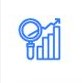
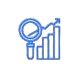
inserito hover sez. 3

diff --git a/src/components/section3Comp.vue b/src/components/section3Comp.vue
@@ -55,9 +55,11 @@ section {
   margin-bottom: 40px;
   padding: 15px 10px;
   box-shadow: 5px 5px 32px 7px #e2dcdc;
+  border-radius: 5px;
 }
 .icone {
   width: 30%;
+  margin: 10px 0;
 }
 h5 {
   margin-left: 10px;
@@ -90,4 +92,13 @@ h5 {
 .cont-button {
   flex-basis: 23%;
 }
+.card:hover{
+  background-color: #6cdac1;
+  color: white;
+  filter: brightness(110%);
+  .icone{
+    filter: invert(0.4);
+}
+}  
+  
 </style>
